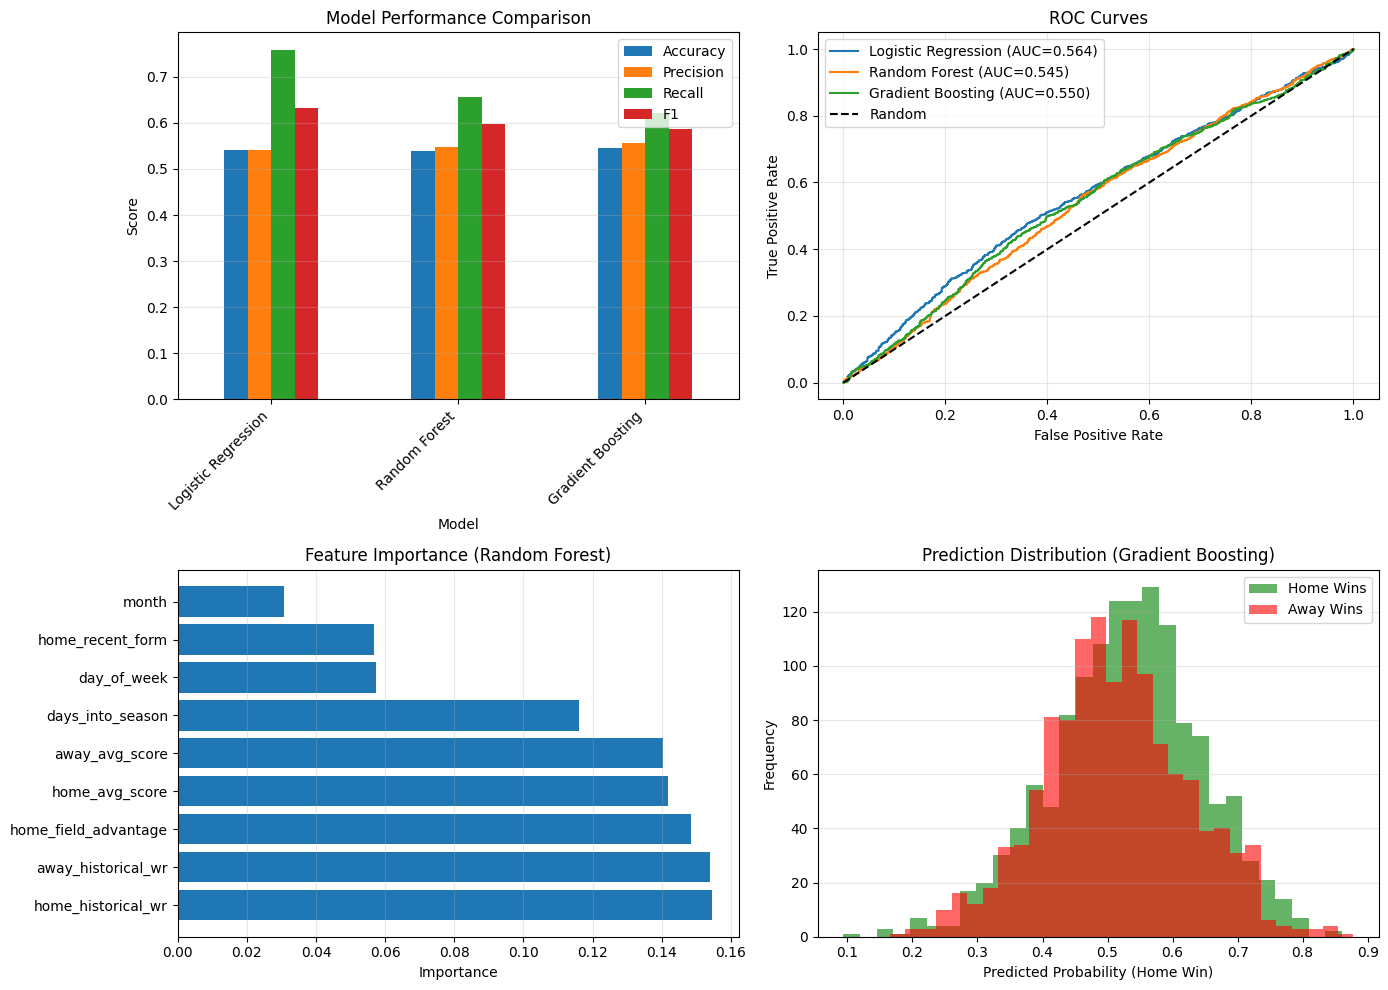
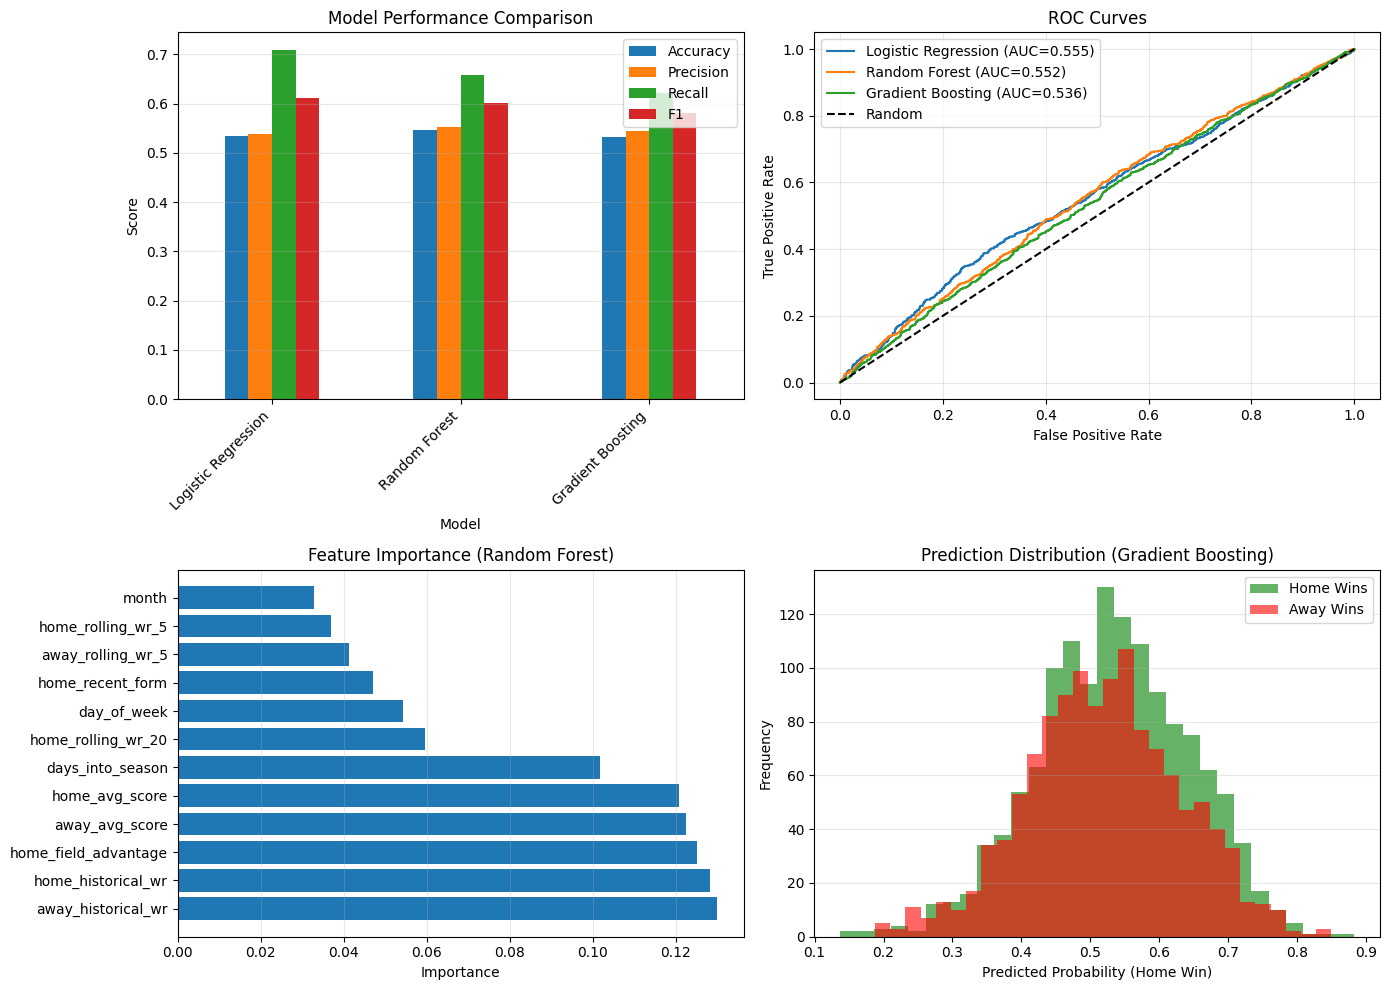
add feature

diff --git a/src/train_model.py b/src/train_model.py
@@ -156,7 +156,54 @@ for idx, row in features_df.iterrows():
 
 features_df['home_recent_form'] = recent_wins
 
-# 6. Days of rest (simplified - using day of week)
+# 6. Rolling win rates (different windows for trend detection)
+print("✓ Computing rolling win rates...")
+
+# Rolling win rate for home team (last 5 games)
+rolling_5 = []
+for idx, row in features_df.iterrows():
+    home_team = row['home_team']
+    date = row['date']
+    
+    recent_games = features_df[(features_df['home_team'] == home_team) & (features_df['date'] < date)].tail(5)
+    if len(recent_games) > 0:
+        rolling_5.append(recent_games['home_win'].mean())
+    else:
+        rolling_5.append(0.5)
+
+features_df['home_rolling_wr_5'] = rolling_5
+
+# Rolling win rate for away team (last 5 games)
+rolling_away_5 = []
+for idx, row in features_df.iterrows():
+    away_team = row['away_team']
+    date = row['date']
+    
+    # Away team win rate = 1 - home_win rate
+    recent_games = features_df[(features_df['away_team'] == away_team) & (features_df['date'] < date)].tail(5)
+    if len(recent_games) > 0:
+        away_wins = (1 - recent_games['home_win']).mean()
+        rolling_away_5.append(away_wins)
+    else:
+        rolling_away_5.append(0.5)
+
+features_df['away_rolling_wr_5'] = rolling_away_5
+
+# Rolling win rate for home team (last 20 games)
+rolling_20 = []
+for idx, row in features_df.iterrows():
+    home_team = row['home_team']
+    date = row['date']
+    
+    recent_games = features_df[(features_df['home_team'] == home_team) & (features_df['date'] < date)].tail(20)
+    if len(recent_games) > 0:
+        rolling_20.append(recent_games['home_win'].mean())
+    else:
+        rolling_20.append(0.5)
+
+features_df['home_rolling_wr_20'] = rolling_20
+
+# 7. Days of rest (simplified - using day of week)
 print("✓ Adding rest/day features...")
 features_df['day_of_week'] = features_df['date'].dt.dayofweek
 features_df['month'] = features_df['date'].dt.month
@@ -174,7 +221,8 @@ feature_cols = [
     'home_historical_wr', 'away_historical_wr',
     'home_avg_score', 'away_avg_score',
     'days_into_season', 'home_field_advantage',
-    'home_recent_form', 'day_of_week', 'month'
+    'home_recent_form', 'home_rolling_wr_5', 'away_rolling_wr_5', 'home_rolling_wr_20',
+    'day_of_week', 'month'
 ]
 
 X = train_df[feature_cols].fillna(0.5)
